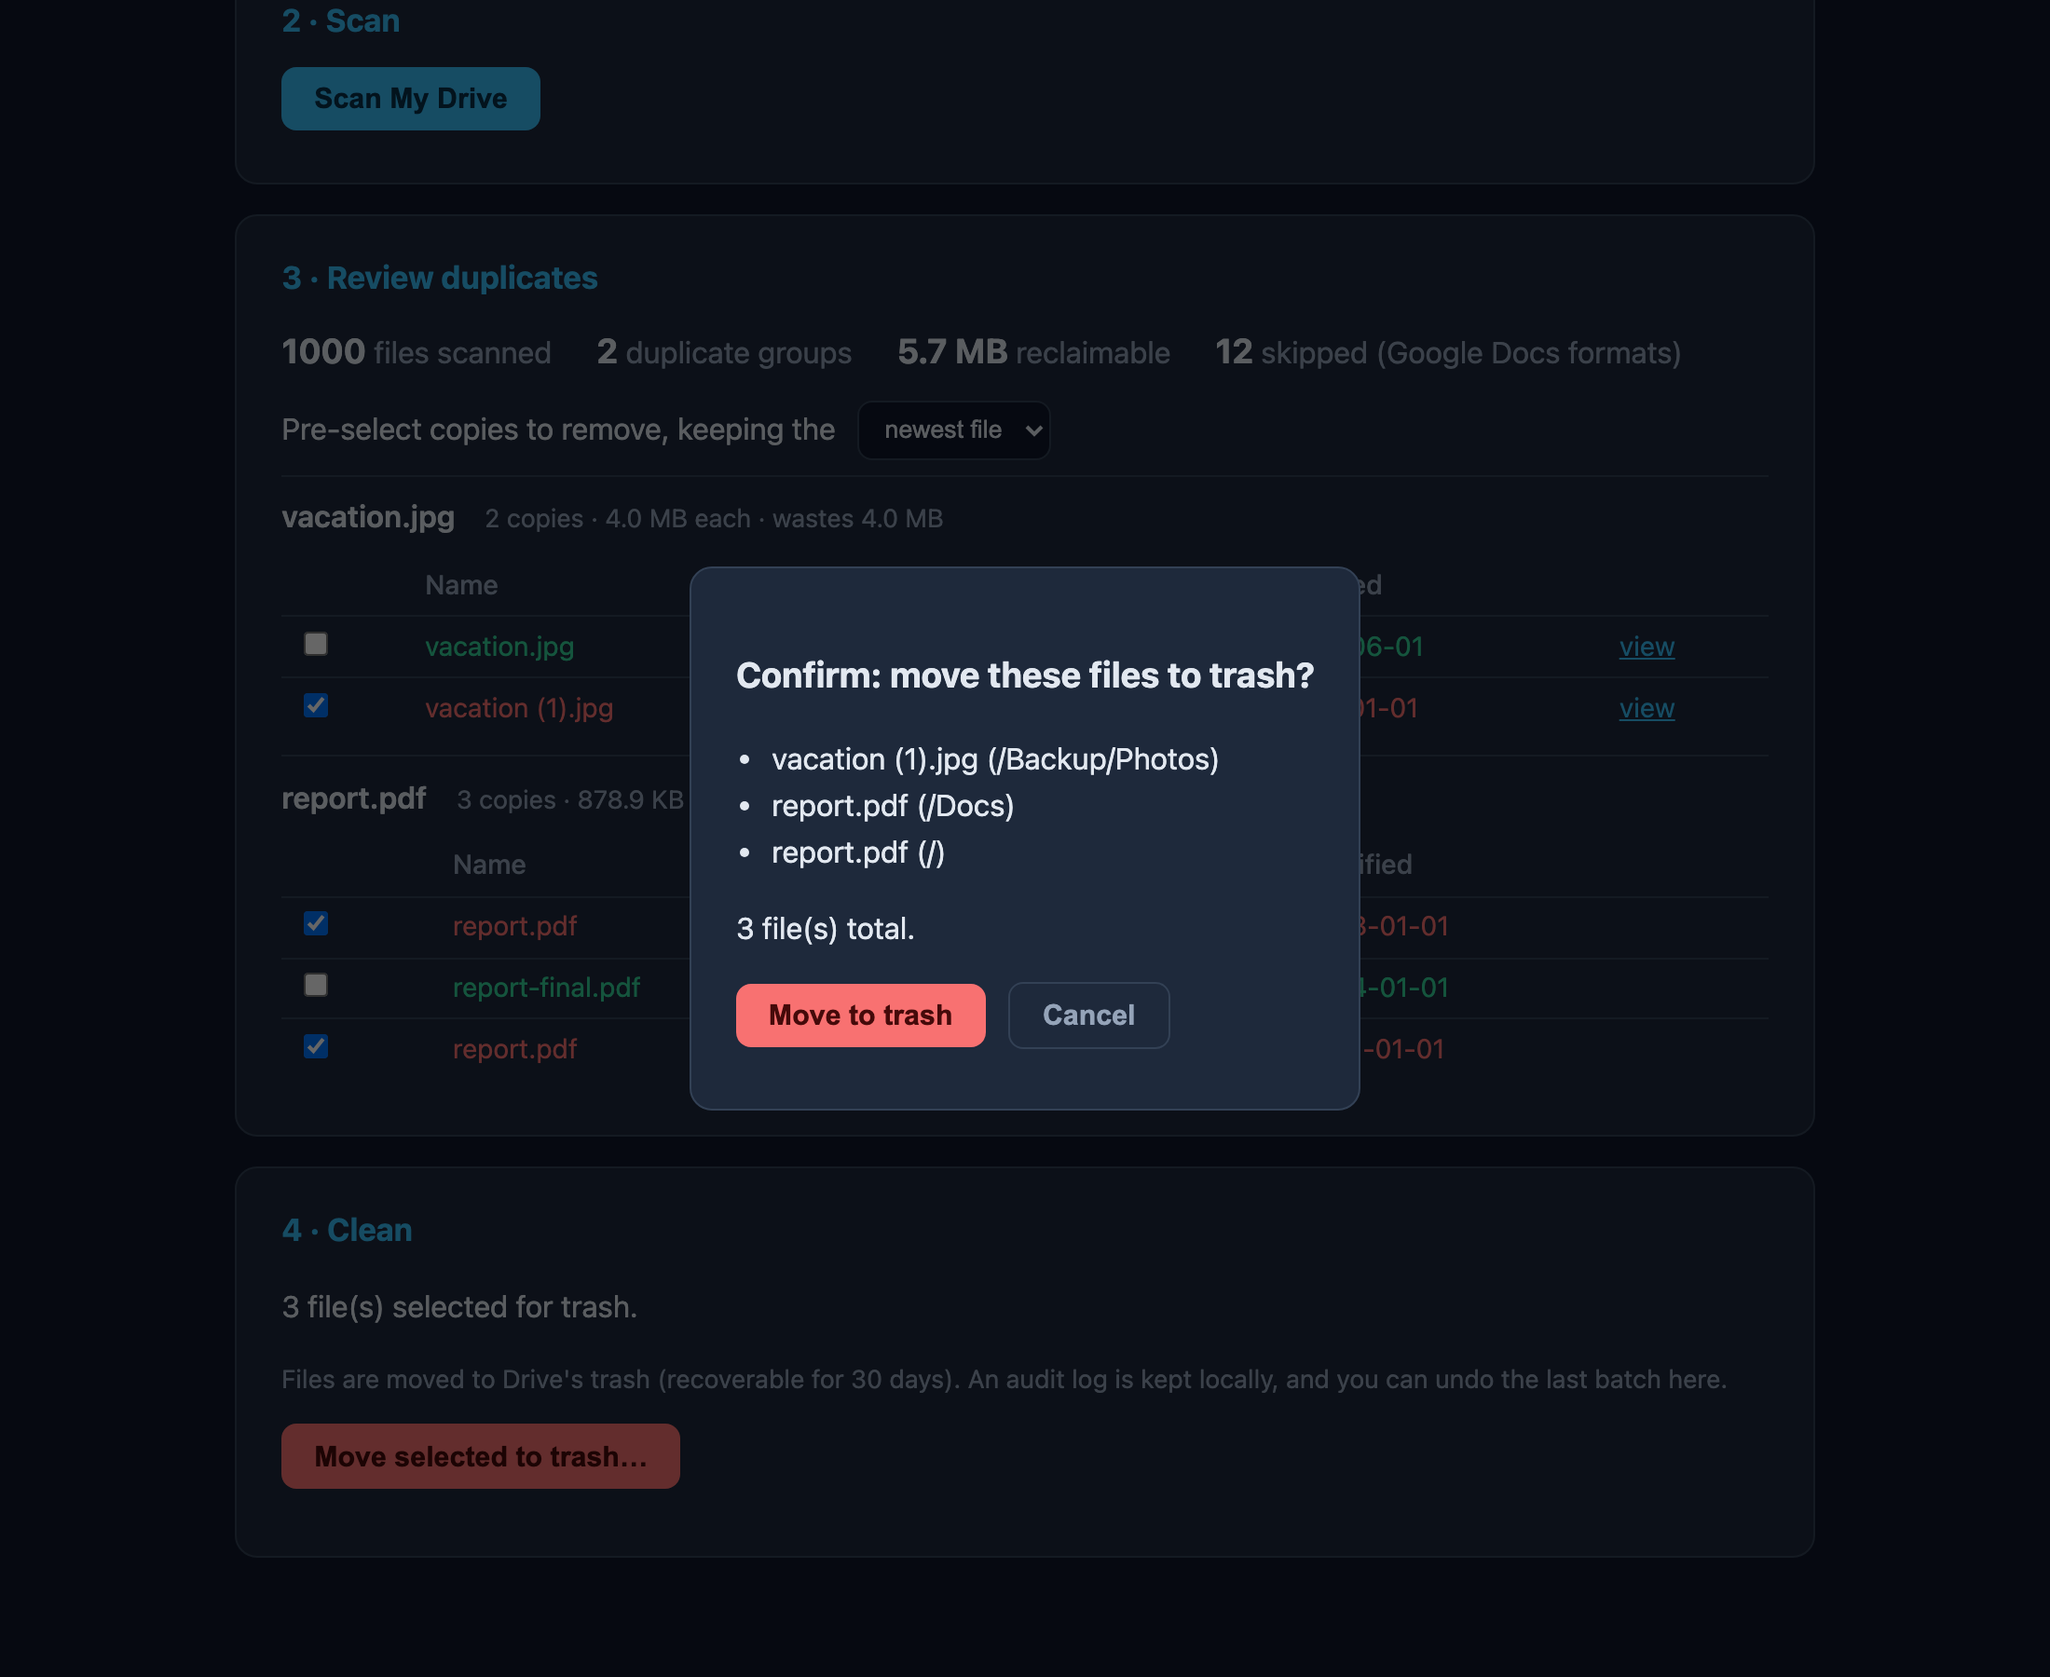
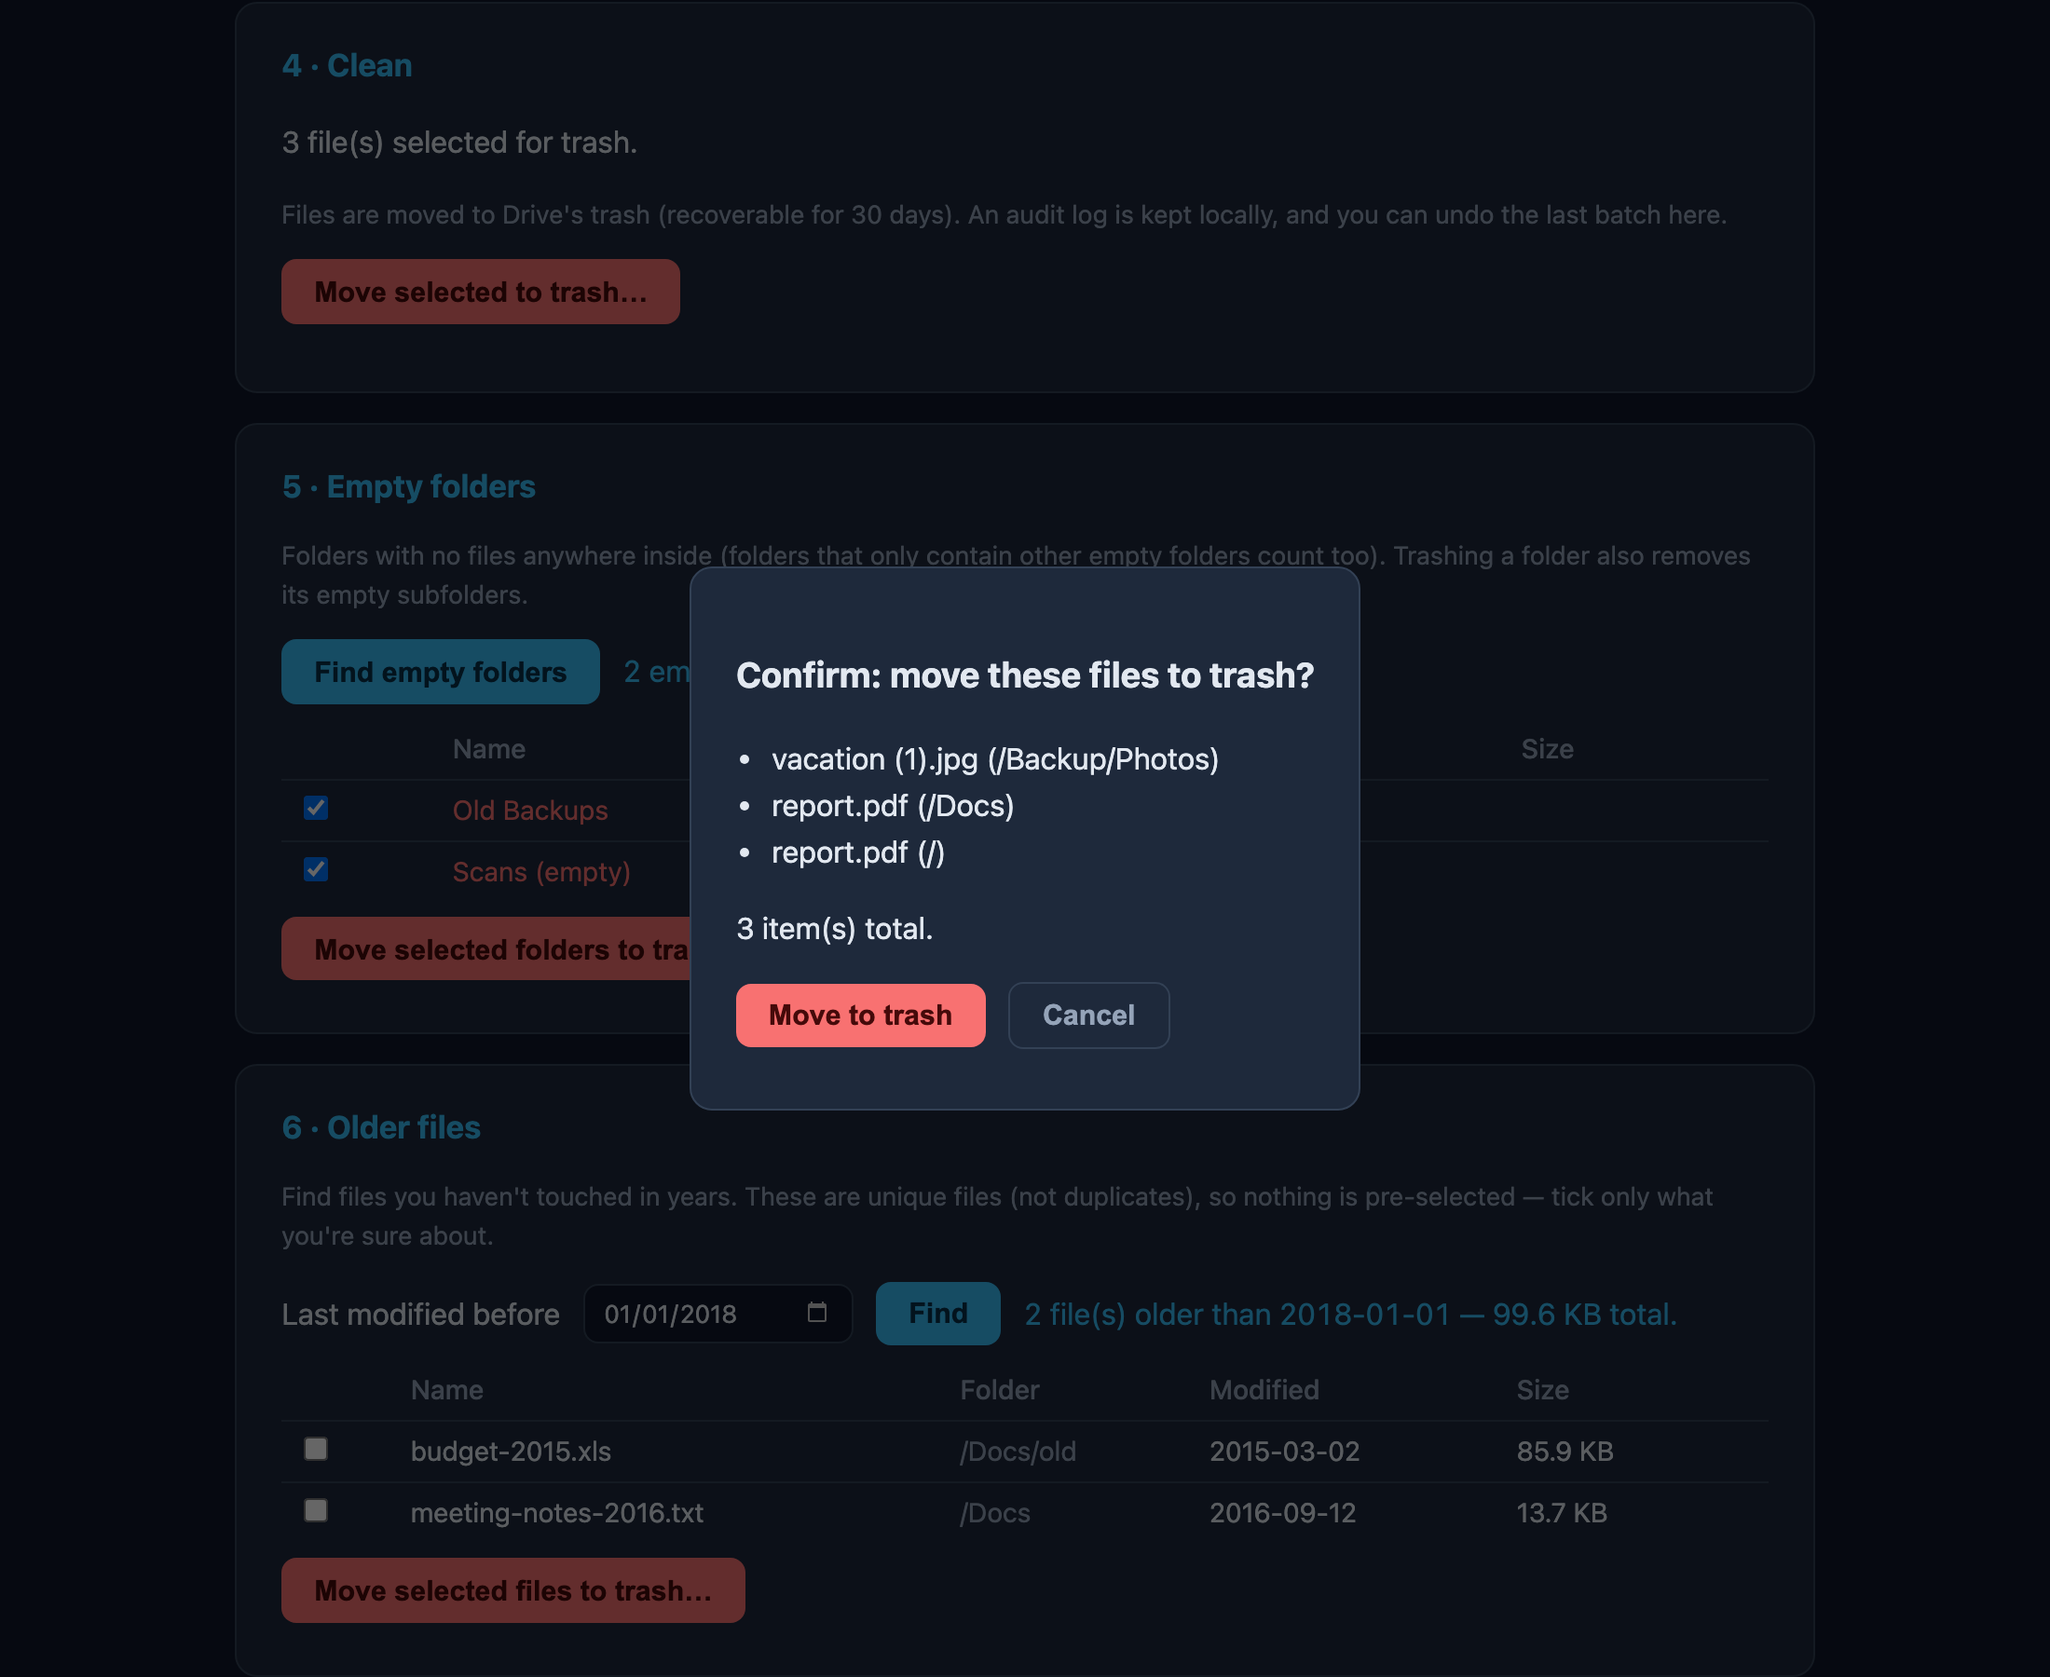
feat: empty-folders and older-files tools in web UI; docs and screenshots; bump to 2.1.0

diff --git a/gdrive_dedupe/web/static/app.js b/gdrive_dedupe/web/static/app.js
@@ -81,6 +81,8 @@ function renderResult() {
   const r = currentResult;
   show("#stage-review", true);
   show("#stage-clean", r.groups.length > 0);
+  show("#stage-folders", true);
+  show("#stage-old", true);
   $("#summary").innerHTML = `
     <div><b>${r.total_files}</b> files scanned</div>
     <div><b>${r.duplicate_groups}</b> duplicate groups</div>
@@ -162,7 +164,18 @@ function escapeHtml(text) {
   return div.innerHTML;
 }
 
-async function confirmClean() {
+let pendingTrash = null; // { ids, endpoint }
+
+function openConfirm(ids, names, endpoint) {
+  pendingTrash = { ids, endpoint };
+  $("#confirm-list").innerHTML = names.slice(0, 15)
+    .map((n) => `<li>${escapeHtml(n)}</li>`).join("");
+  $("#confirm-count").textContent = names.length > 15
+    ? `…and ${names.length - 15} more.` : `${names.length} item(s) total.`;
+  $("#confirm-dialog").showModal();
+}
+
+function confirmClean() {
   const ids = selectedIds();
   const names = [];
   for (const group of currentResult.groups) {
@@ -170,33 +183,133 @@ async function confirmClean() {
       if (ids.includes(file.id)) names.push(`${file.name} (${file.path})`);
     }
   }
-  $("#confirm-list").innerHTML = names.slice(0, 15)
-    .map((n) => `<li>${escapeHtml(n)}</li>`).join("");
-  $("#confirm-count").textContent = names.length > 15
-    ? `…and ${names.length - 15} more.` : `${names.length} file(s) total.`;
-  $("#confirm-dialog").showModal();
+  openConfirm(ids, names, "/api/clean");
 }
 
-async function runClean() {
+async function runPendingTrash() {
   $("#confirm-dialog").close();
+  if (!pendingTrash) return;
   const status = await api("/api/auth/status");
   if (!status.write_access) {
     $("#clean-result").textContent =
-      "Requesting write access — approve the Google consent tab, then click Clean again.";
+      "Requesting write access — approve the Google consent tab, then confirm again.";
     await connect(true);
     return;
   }
   try {
-    const body = await api("/api/clean", {
+    const body = await api(pendingTrash.endpoint, {
       method: "POST",
-      body: JSON.stringify({ file_ids: selectedIds() }),
+      body: JSON.stringify({ file_ids: pendingTrash.ids }),
     });
     $("#clean-result").textContent =
-      `Moved ${body.trashed} file(s) to trash (batch ${body.batch_id}).`;
+      `Moved ${body.trashed} item(s) to trash (batch ${body.batch_id}). ` +
+      "Re-scan to refresh the lists.";
     $("#btn-undo").hidden = false;
+    pendingTrash = null;
   } catch (err) {
     $("#clean-result").textContent = `Error: ${err.message}`;
   }
+}
+
+// ---- Extra tools: empty folders & older files ----
+
+function checkedIds(containerSel) {
+  return [...document.querySelectorAll(`${containerSel} input[type="checkbox"]:checked`)]
+    .map((el) => el.dataset.id);
+}
+
+function colorRows(container) {
+  container.querySelectorAll("tr").forEach((row) => {
+    const box = row.querySelector("input");
+    if (box) row.className = box.checked ? "trash" : "";
+  });
+}
+
+const toolItems = { folders: [], old: [] };
+
+function renderToolTable(containerSel, items, preChecked) {
+  const container = $(containerSel);
+  container.innerHTML = "";
+  if (!items.length) return;
+  const table = document.createElement("table");
+  table.innerHTML =
+    "<tr><th></th><th>Name</th><th>Folder</th><th>Modified</th><th>Size</th><th></th></tr>";
+  for (const item of items) {
+    const row = document.createElement("tr");
+    row.className = preChecked ? "trash" : "";
+
+    const checkCell = document.createElement("td");
+    const box = document.createElement("input");
+    box.type = "checkbox";
+    box.dataset.id = item.id;
+    box.checked = preChecked;
+    checkCell.appendChild(box);
+
+    const nameCell = document.createElement("td");
+    nameCell.textContent = item.name;
+    const pathCell = document.createElement("td");
+    pathCell.className = "path";
+    pathCell.textContent = item.path;
+    const dateCell = document.createElement("td");
+    dateCell.textContent = (item.modified_time || "").slice(0, 10);
+    const sizeCell = document.createElement("td");
+    sizeCell.textContent = item.size ? item.size_human : "";
+    const linkCell = document.createElement("td");
+    if (item.web_view_link) {
+      const link = document.createElement("a");
+      link.href = item.web_view_link;
+      link.target = "_blank";
+      link.rel = "noopener";
+      link.textContent = "view";
+      linkCell.appendChild(link);
+    }
+    row.append(checkCell, nameCell, pathCell, dateCell, sizeCell, linkCell);
+    table.appendChild(row);
+  }
+  container.appendChild(table);
+}
+
+async function findFolders() {
+  try {
+    const body = await api("/api/empty-folders");
+    toolItems.folders = body.folders;
+    renderToolTable("#folders-list", body.folders, true);
+    $("#folders-info").textContent = body.count
+      ? `${body.count} empty folder(s) found.` : "No empty folders 🎉";
+    $("#btn-trash-folders").hidden = body.count === 0;
+  } catch (err) {
+    $("#folders-info").textContent = `Error: ${err.message}`;
+  }
+}
+
+async function findOld() {
+  const before = $("#before-date").value;
+  if (!before) {
+    $("#old-info").textContent = "Pick a date first.";
+    return;
+  }
+  try {
+    const body = await api(`/api/old-files?before=${before}`);
+    toolItems.old = body.files;
+    renderToolTable("#old-list", body.files, false);
+    $("#old-info").textContent = body.count
+      ? `${body.count} file(s) older than ${before} — ${body.total_human} total.`
+      : `No files older than ${before}.`;
+    $("#btn-trash-old").hidden = body.count === 0;
+  } catch (err) {
+    $("#old-info").textContent = `Error: ${err.message}`;
+  }
+}
+
+function trashToolSelection(listSel, items, kind) {
+  const ids = checkedIds(listSel);
+  const names = items
+    .filter((x) => ids.includes(x.id))
+    .map((x) => (kind === "folder"
+      ? `${x.path.replace(/\/$/, "")}/${x.name} (folder)`
+      : `${x.name} (${x.path})`));
+  if (!ids.length) return;
+  openConfirm(ids, names, "/api/trash");
 }
 
 async function undo() {
@@ -218,8 +331,16 @@ $("#btn-scan").addEventListener("click", startScan);
 $("#strategy").addEventListener("change", loadResult);
 $("#groups").addEventListener("change", updateCleanSummary);
 $("#btn-clean").addEventListener("click", confirmClean);
-$("#confirm-yes").addEventListener("click", runClean);
+$("#confirm-yes").addEventListener("click", runPendingTrash);
 $("#confirm-no").addEventListener("click", () => $("#confirm-dialog").close());
 $("#btn-undo").addEventListener("click", undo);
+$("#btn-find-folders").addEventListener("click", findFolders);
+$("#btn-find-old").addEventListener("click", findOld);
+$("#btn-trash-folders").addEventListener("click",
+  () => trashToolSelection("#folders-list", toolItems.folders, "folder"));
+$("#btn-trash-old").addEventListener("click",
+  () => trashToolSelection("#old-list", toolItems.old, "file"));
+$("#folders-list").addEventListener("change", (e) => colorRows(e.currentTarget));
+$("#old-list").addEventListener("change", (e) => colorRows(e.currentTarget));
 
 refreshAuth();

diff --git a/gdrive_dedupe/web/static/index.html b/gdrive_dedupe/web/static/index.html
@@ -61,6 +61,38 @@
     </div>
     <p id="clean-result"></p>
   </section>
+
+  <!-- Tool: Empty folders -->
+  <section id="stage-folders" class="card" hidden>
+    <h2>5 · Empty folders</h2>
+    <p class="hint">Folders with no files anywhere inside (folders that only contain other
+      empty folders count too). Trashing a folder also removes its empty subfolders.</p>
+    <div class="row">
+      <button id="btn-find-folders">Find empty folders</button>
+      <span id="folders-info" class="progress"></span>
+    </div>
+    <div id="folders-list"></div>
+    <div class="row">
+      <button id="btn-trash-folders" class="danger" hidden>Move selected folders to trash…</button>
+    </div>
+  </section>
+
+  <!-- Tool: Older files -->
+  <section id="stage-old" class="card" hidden>
+    <h2>6 · Older files</h2>
+    <p class="hint">Find files you haven't touched in years. These are unique files (not
+      duplicates), so nothing is pre-selected — tick only what you're sure about.</p>
+    <div class="row">
+      <label for="before-date">Last modified before</label>
+      <input type="date" id="before-date">
+      <button id="btn-find-old">Find</button>
+      <span id="old-info" class="progress"></span>
+    </div>
+    <div id="old-list"></div>
+    <div class="row">
+      <button id="btn-trash-old" class="danger" hidden>Move selected files to trash…</button>
+    </div>
+  </section>
 </main>
 
 <dialog id="confirm-dialog">

diff --git a/gdrive_dedupe/web/static/style.css b/gdrive_dedupe/web/static/style.css
@@ -45,10 +45,12 @@ button.danger { background: var(--danger); color: #450a0a; }
 .progress { color: var(--accent); font-variant-numeric: tabular-nums; }
 .stats { display: flex; gap: 1.5rem; flex-wrap: wrap; margin-bottom: 0.75rem; color: var(--muted); }
 .stats b { color: var(--text); font-size: 1.15rem; }
-select {
+select, input[type="date"] {
   background: var(--bg); color: var(--text); border: 1px solid var(--border);
   border-radius: 8px; padding: 0.4rem 0.6rem;
+  font-family: inherit;
 }
+input[type="date"]::-webkit-calendar-picker-indicator { filter: invert(0.8); }
 details { border-top: 1px solid var(--border); padding: 0.6rem 0; }
 summary { cursor: pointer; display: flex; gap: 1rem; align-items: baseline; }
 .gname { font-weight: 600; }

diff --git a/tests/test_smoke.py b/tests/test_smoke.py
@@ -2,4 +2,4 @@ import gdrive_dedupe
 
 
 def test_version():
-    assert gdrive_dedupe.__version__ == "2.0.0"
+    assert gdrive_dedupe.__version__ == "2.1.0"

diff --git a/gdrive_dedupe/__init__.py b/gdrive_dedupe/__init__.py
@@ -1,1 +1,1 @@
-__version__ = "2.0.0"
+__version__ = "2.1.0"

diff --git a/README.md b/README.md
@@ -28,6 +28,10 @@ audit log and one-click undo.
   the web UI always shows a confirmation dialog listing exactly what will be trashed.
 - **Trash only, with undo** — nothing is permanently deleted. Every batch is recorded
   in a local audit log, and the last batch can be restored with one command or click.
+- **Empty-folder cleanup** — finds folders with no files anywhere inside them
+  (recursively) and removes them in one confirmed batch.
+- **Old-file finder** — lists files last modified before a date you choose, so you can
+  review and clear out ancient files.
 - **Only your files** — files merely *shared with you* are never touched.
 - **Private** — no telemetry, no third-party servers; the web server binds to
   `127.0.0.1` only.
@@ -92,6 +96,18 @@ Nothing is trashed without an explicit confirmation listing every affected file:
 
 ![Confirmation dialog before moving files to trash](docs/img/confirm.png)
 
+After a scan, two extra tools use the same data — no additional API calls:
+
+**Empty folders** — folders whose entire subtree contains no files. Only the topmost
+empty folders are listed; trashing them covers their empty subfolders.
+
+![Empty folders tool](docs/img/tool-folders.png)
+
+**Older files** — everything last modified before a date you pick. These are unique
+files, so nothing is pre-selected.
+
+![Older files tool](docs/img/tool-old.png)
+
 *Screenshots show demo data.*
 
 ## CLI usage
@@ -104,6 +120,11 @@ uv run gdrive-dedupe clean --apply         # trash duplicates, keeping the newes
 uv run gdrive-dedupe clean --strategy oldest --apply   # keep the oldest copy instead
 uv run gdrive-dedupe undo                  # restore the last trashed batch
 uv run gdrive-dedupe web --port 9000       # web UI on another port
+
+uv run gdrive-dedupe empty-folders                     # list folders with no files inside
+uv run gdrive-dedupe empty-folders --apply             # ...and move them to trash
+uv run gdrive-dedupe old-files --before 2020-01-01     # list files not modified since 2020
+uv run gdrive-dedupe old-files --before 2020-01-01 --apply   # ...and move them to trash
 ```
 
 ## How duplicates are detected

diff --git a/CHANGELOG.md b/CHANGELOG.md
@@ -3,6 +3,18 @@
 All notable changes to this project are documented here. The format is based on
 [Keep a Changelog](https://keepachangelog.com/en/1.1.0/).
 
+## [2.1.0] — 2026-07-23
+
+### Added
+- **Empty-folder cleanup** (web card + `gdrive-dedupe empty-folders [--apply]`):
+  finds folders whose entire subtree contains no files; only the topmost empty
+  folders are offered, and trashing them covers their empty subfolders.
+- **Old-file finder** (web card + `gdrive-dedupe old-files --before YYYY-MM-DD
+  [--apply]`): lists files last modified before a chosen date, oldest first,
+  with total size. Nothing is pre-selected — these are unique files.
+- Both tools reuse the scan's data (no extra API calls) and the existing safety
+  model: dry-run/confirmation, trash-only, audit log, undo.
+
 ## [2.0.0] — 2026-07-23
 
 Complete rewrite as the `gdrive-dedupe` package.

diff --git a/docs/architecture.md b/docs/architecture.md
@@ -8,7 +8,7 @@ gdrive_dedupe/
 │   ├── models.py          # DriveFile, DuplicateGroup, ScanResult, human_bytes
 │   ├── auth.py            # OAuth flow, token storage, two-tier scopes
 │   ├── drive.py           # DriveClient: pagination, backoff, path resolution, trash
-│   ├── scanner.py         # group_duplicates (pure) + scan (client → result)
+│   ├── scanner.py         # group_duplicates, scan, find_empty_folders, find_old_files
 │   ├── strategies.py      # keep-newest / keep-oldest selection
 │   └── actions.py         # audit-logged trash batches + undo
 ├── web/
